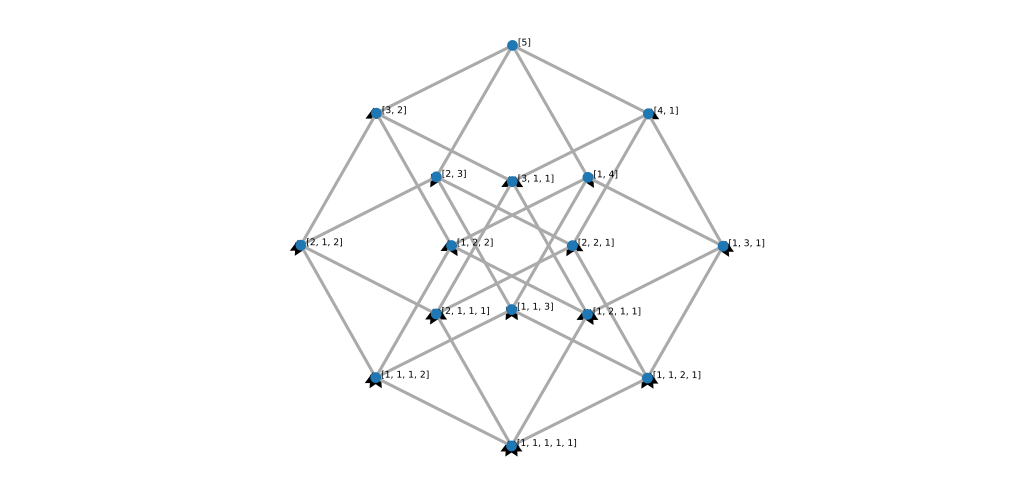
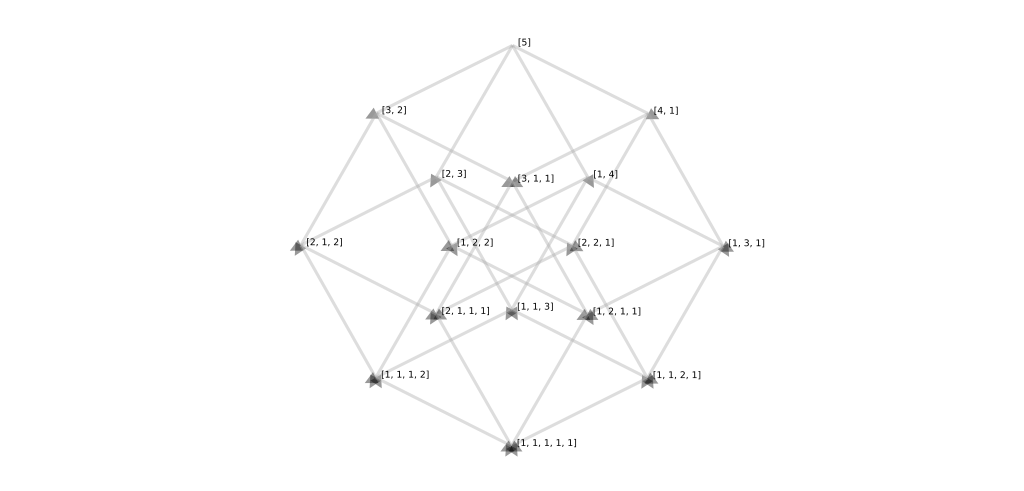
Reduced arc opacity in a CSS style tag and smaller markers

diff --git a/y5_small_markers.html b/y5_small_markers.html
@@ -1,9 +1,10 @@
+<html>
+<body>
 <svg height="639" pointer-events="all" width="1334">
  <style type="text/css">
    path.link {
      opacity: 0.4
    }
-   circle { opacity: 0 }
  </style>
  <g>
   <g>
@@ -73,11 +74,16 @@
    <text vertical-align="middle" x="496.4508526370778" y="491.3902911455856"> [1, 1, 1, 2] </text>
    <text vertical-align="middle" x="673.3257653351426" y="580.3719827316739"> [1, 1, 1, 1, 1] </text>
    <defs>
-    <marker id="directed" markerheight="4" markerwidth="4" orient="auto" preserveaspectratio="false" refx="6" refy="0" viewbox="0 -2 4 4">
+<!--    <marker id="directed" markerheight="4" markerwidth="4" orient="auto" preserveaspectratio="false" refx="6" refy="0" viewbox="0 -2 4 4">
      <path d="M0,-2L4,0L0,2"> </path>
+    </marker>
+-->
+    <marker id="directed" markerHeight="4" markerWidth="4" orient="auto" preserveAspectRatio="false" refX="6" refY="0" viewBox="0 -3 6 6">
+     <path d="M0,-1L2,0L0,1"> </path>
     </marker>
    </defs>
   </g>
  </g>
 </svg>
-
+</body>
+</html>

diff --git a/y5.html b/y5.html
@@ -1,10 +1,5 @@
+<head><body>
 <svg height="639" pointer-events="all" width="1334">
- <style type="text/css">
-   path.link {
-     opacity: 0.4
-   }
-   circle { opacity: 0 }
- </style>
  <g>
   <g>
    <rect fill="white" height="20000" width="20000" x="-10000" y="-10000"> </rect>
@@ -81,3 +76,4 @@
  </g>
 </svg>
 
+</head></body>

diff --git a/README.md b/README.md
@@ -277,6 +277,16 @@ Similarly for compositions of the integer 5
 
 ![](y5.png)
 
+Here I decided to change the size of the markers, as they were being shown as way too big when
+rendered by Inkscape (but not by Firefox, but still I wanted to avoid it), and I also noticed that
+when D3 renders them it gives them partial opacity, so I created a CSS style node underneath the
+`<svg>` tag. The result looks much neater, and overlaps are subtly shown by the darker shading.
+
+- The files involved here are `y5_small_markers.png` generated from `y5_small_markers.svg` and
+  viewable as a webpage as `y5_small_markers.html`
+
+![](y5_small_markers.png)
+
 ### View SVG tree with svgi
 
 The `npm`-packaged `nodejs` tool `svgi` will similarly print the tree of the SVG file generated from
